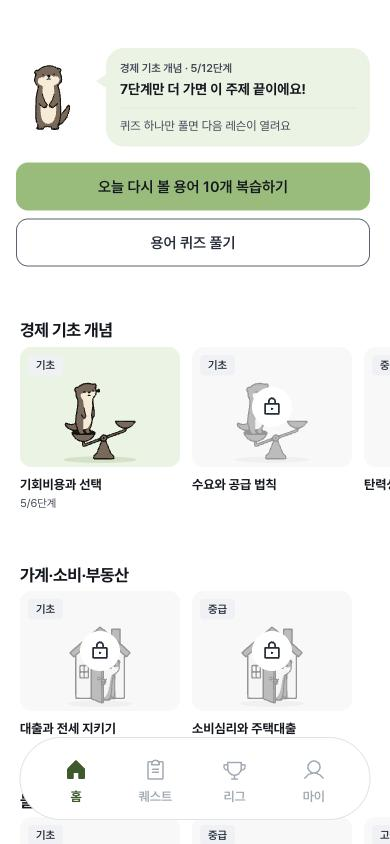
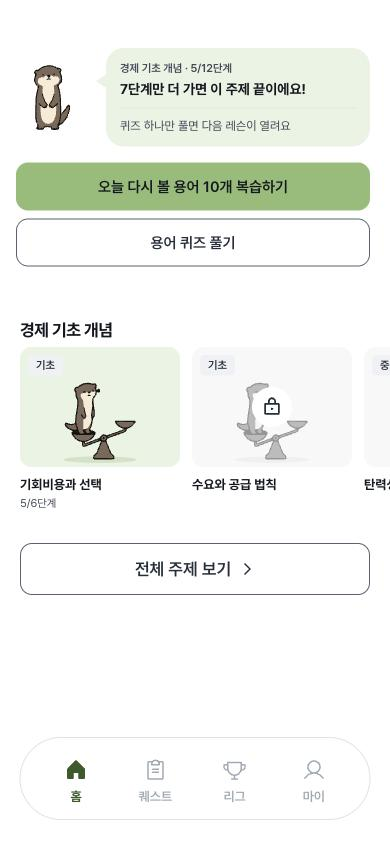
홈에는 지금 진행 중인 주제 하나만 노출

diff --git a/src/pages/CourseScreen.tsx b/src/pages/CourseScreen.tsx
@@ -382,8 +382,8 @@ const CourseScreen = () => {
           </ActionButton>}
         </section>
 
-        {/* 학습 순서상 앞 주제 3개를 주제명별로 묶고, 그 아래에 난이도별 코스를 가로 카드로 둔다(잠긴 코스는 자물쇠) */}
-        {[...new Set(topics.map(topic => topic.category))].slice(0, 3).map(category => (
+        {/* 지금 진행 중인 주제 하나만 두고, 그 아래에 난이도별 코스를 가로 카드로 둔다(잠긴 코스는 자물쇠). 다 배웠으면 첫 주제 */}
+        {[focusTopic?.category ?? topics[0]?.category].filter((c): c is string => !!c).map(category => (
           <section key={category} aria-label={category}>
             <div className="course-home-section-heading">
               <h2 className="type-section-title">{category}</h2>

diff --git a/DESIGN.md b/DESIGN.md
@@ -74,7 +74,7 @@
 
 **주제 썸네일(2026-11-04)**
 
-- 홈은 학습 순서상 앞 주제 3개를 주제명 섹션으로 나누고(제목만), 그 아래에 코스 카드(160x120 주제 그림 왼쪽 위에 난이도 뱃지, 아래 코스 이름 `COURSE_NAMES` + 단계, 잠긴 코스는 흐린 그림 + 자물쇠)를 가로로 둔다. 학습은 전체 순서(기초의 모든 주제 → 중급 …)대로 하나씩만 열린다. 맨 아래 "전체 주제 보기". 단어 카드 뉴스는 40px 정사각 그림(`TopicThumb`). 15개 주제는 달리 장면 일러스트(`public/topics/scenes/topic-<slug>.svg`, 240x180, 정사각으로 가운데를 잘라 씀), 장면이 없는 은행·금융제도, 핀테크·디지털·신산업 2개만 Unsplash 사진(`public/topics/SOURCES.md`).
+- 홈은 지금 진행 중인 주제 하나만 주제명 섹션으로 두고(제목만), 그 아래에 코스 카드(160x120 주제 그림 왼쪽 위에 난이도 뱃지, 아래 코스 이름 `COURSE_NAMES` + 단계, 잠긴 코스는 흐린 그림 + 자물쇠)를 가로로 둔다. 학습은 전체 순서(기초의 모든 주제 → 중급 …)대로 하나씩만 열린다. 맨 아래 "전체 주제 보기". 단어 카드 뉴스는 40px 정사각 그림(`TopicThumb`). 15개 주제는 달리 장면 일러스트(`public/topics/scenes/topic-<slug>.svg`, 240x180, 정사각으로 가운데를 잘라 씀), 장면이 없는 은행·금융제도, 핀테크·디지털·신산업 2개만 Unsplash 사진(`public/topics/SOURCES.md`).
 - 그림이 없는 주제는 회색 바탕에 주제 첫 글자를 둔다. 새 주제는 장면 일러스트로 추가한다(`docs/character/topics/`).
 - 카드는 그림자 없이 그림과 글자만 둔다. 기사 원문 사진은 언론사 저작물이라 쓰지 않는다.
 
